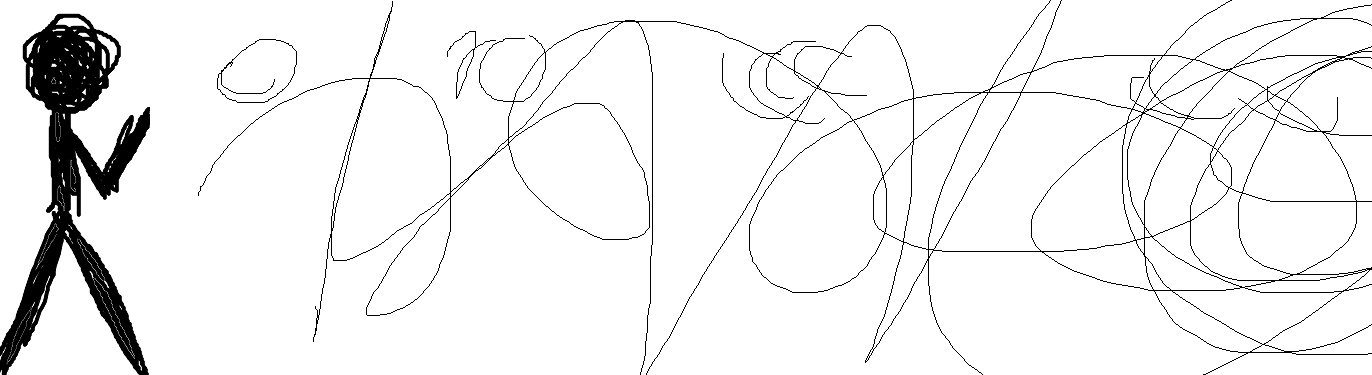
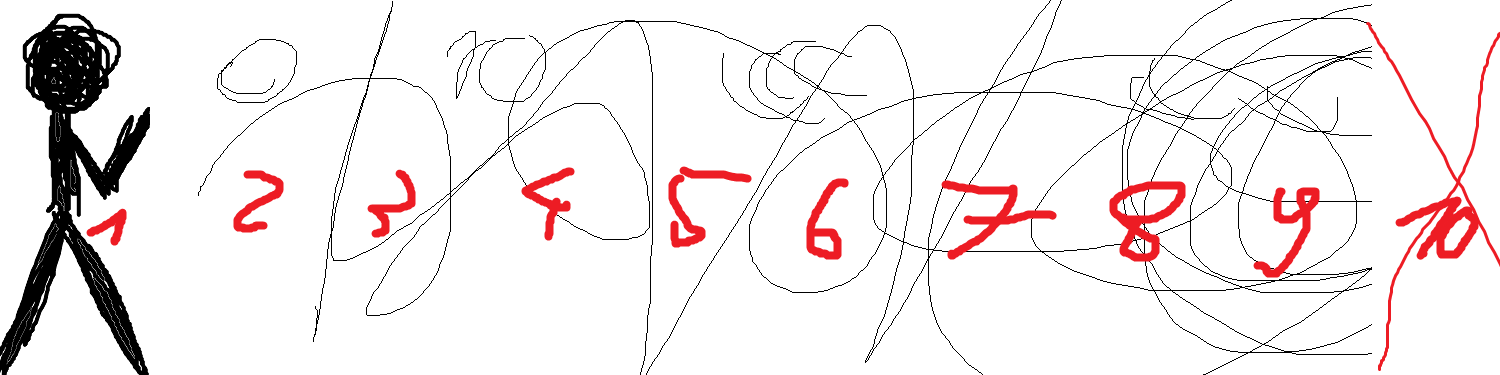
looping animations working well

diff --git a/MK_SFML_Game/Animator.cpp b/MK_SFML_Game/Animator.cpp
@@ -2,7 +2,8 @@
 
 
 
-Animator::Animator(sf::IntRect* _textureRectPtr, int _xMax, int _yMax, AnimationType aType) : textureRectPtr(_textureRectPtr), xMax(_xMax), yMax(_yMax), currAnimation(aType) {
+Animator::Animator(sf::IntRect* _textureRectPtr, int _xMax, int _yMax, AnimationType aType, bool _looping) :
+	textureRectPtr(_textureRectPtr), xMax(_xMax), yMax(_yMax), currAnimation(aType), looping(_looping) {
 	this->initVariables();
 }
 
@@ -15,10 +16,24 @@ const AnimationType Animator::getCurrAnimationType() {
 }
 
 void Animator::update() {
-	this->textureRectPtr->left += 150;
+	if (this->ascending) {
+		if (this->xMax > this->textureRectPtr->left + 150) {
+			this->textureRectPtr->left += 150;
+		} else if (this->looping) {
+			this->ascending = false;
+		}
+	} else if(this->looping) {
+		if (this->textureRectPtr->left - 150 >= 0) {
+			this->textureRectPtr->left -= 150;
+		}
+		else if (this->looping) {
+			this->ascending = true;
+		}
+	}
 }
 
 void Animator::initVariables() {
+	this->ascending = true;
 	this->xInterval = 150;
 	this->yIntervall = 0;
 }

diff --git a/MK_SFML_Game/Player.cpp b/MK_SFML_Game/Player.cpp
@@ -255,7 +255,7 @@ void Player::initVariables() {
 	this->staggerFrames = 0.f;
 	this->recoveryFrames = 0.f;
 	this->textureRect = new sf::IntRect(0, 0, 150, 375);
-	this->animator = new Animator(this->textureRect, 150, 375, AnimationType::STANDING);
+	this->animator = new Animator(this->textureRect, 1500, 375, AnimationType::STANDING, true);
 }
 
 bool Player::wasAttackBlocked(const AttackMove& hitBy) {
@@ -340,6 +340,6 @@ void Player::updateAnimation() {
 	} else {
 		//start animating standing
 		delete this->animator;
-		this->animator = new Animator(this->textureRect, 150, 375, AnimationType::STANDING);
+		this->animator = new Animator(this->textureRect, 1500, 375, AnimationType::STANDING, true);
 	}
 }

diff --git a/MK_SFML_Game/Animator.h b/MK_SFML_Game/Animator.h
@@ -5,7 +5,7 @@ enum class AnimationType { STANDING, WALKING_F, WALKING_B, JUMPING};
 
 class Animator {
 public:
-	Animator(sf::IntRect* textureRectRef, int xMax, int yMax, AnimationType aType);
+	Animator(sf::IntRect* textureRectRef, int xMax, int yMax, AnimationType aType, bool _looping);
 	~Animator();
 
 	//getters
@@ -16,10 +16,14 @@ private:
 	AnimationType currAnimation;
 	sf::IntRect* textureRectPtr;
 
+	//private fields
 	int xInterval;
 	int yIntervall;
 	int xMax;
 	int yMax;
+	bool looping;
+	bool ascending;
+
 
 	void initVariables();
 };
